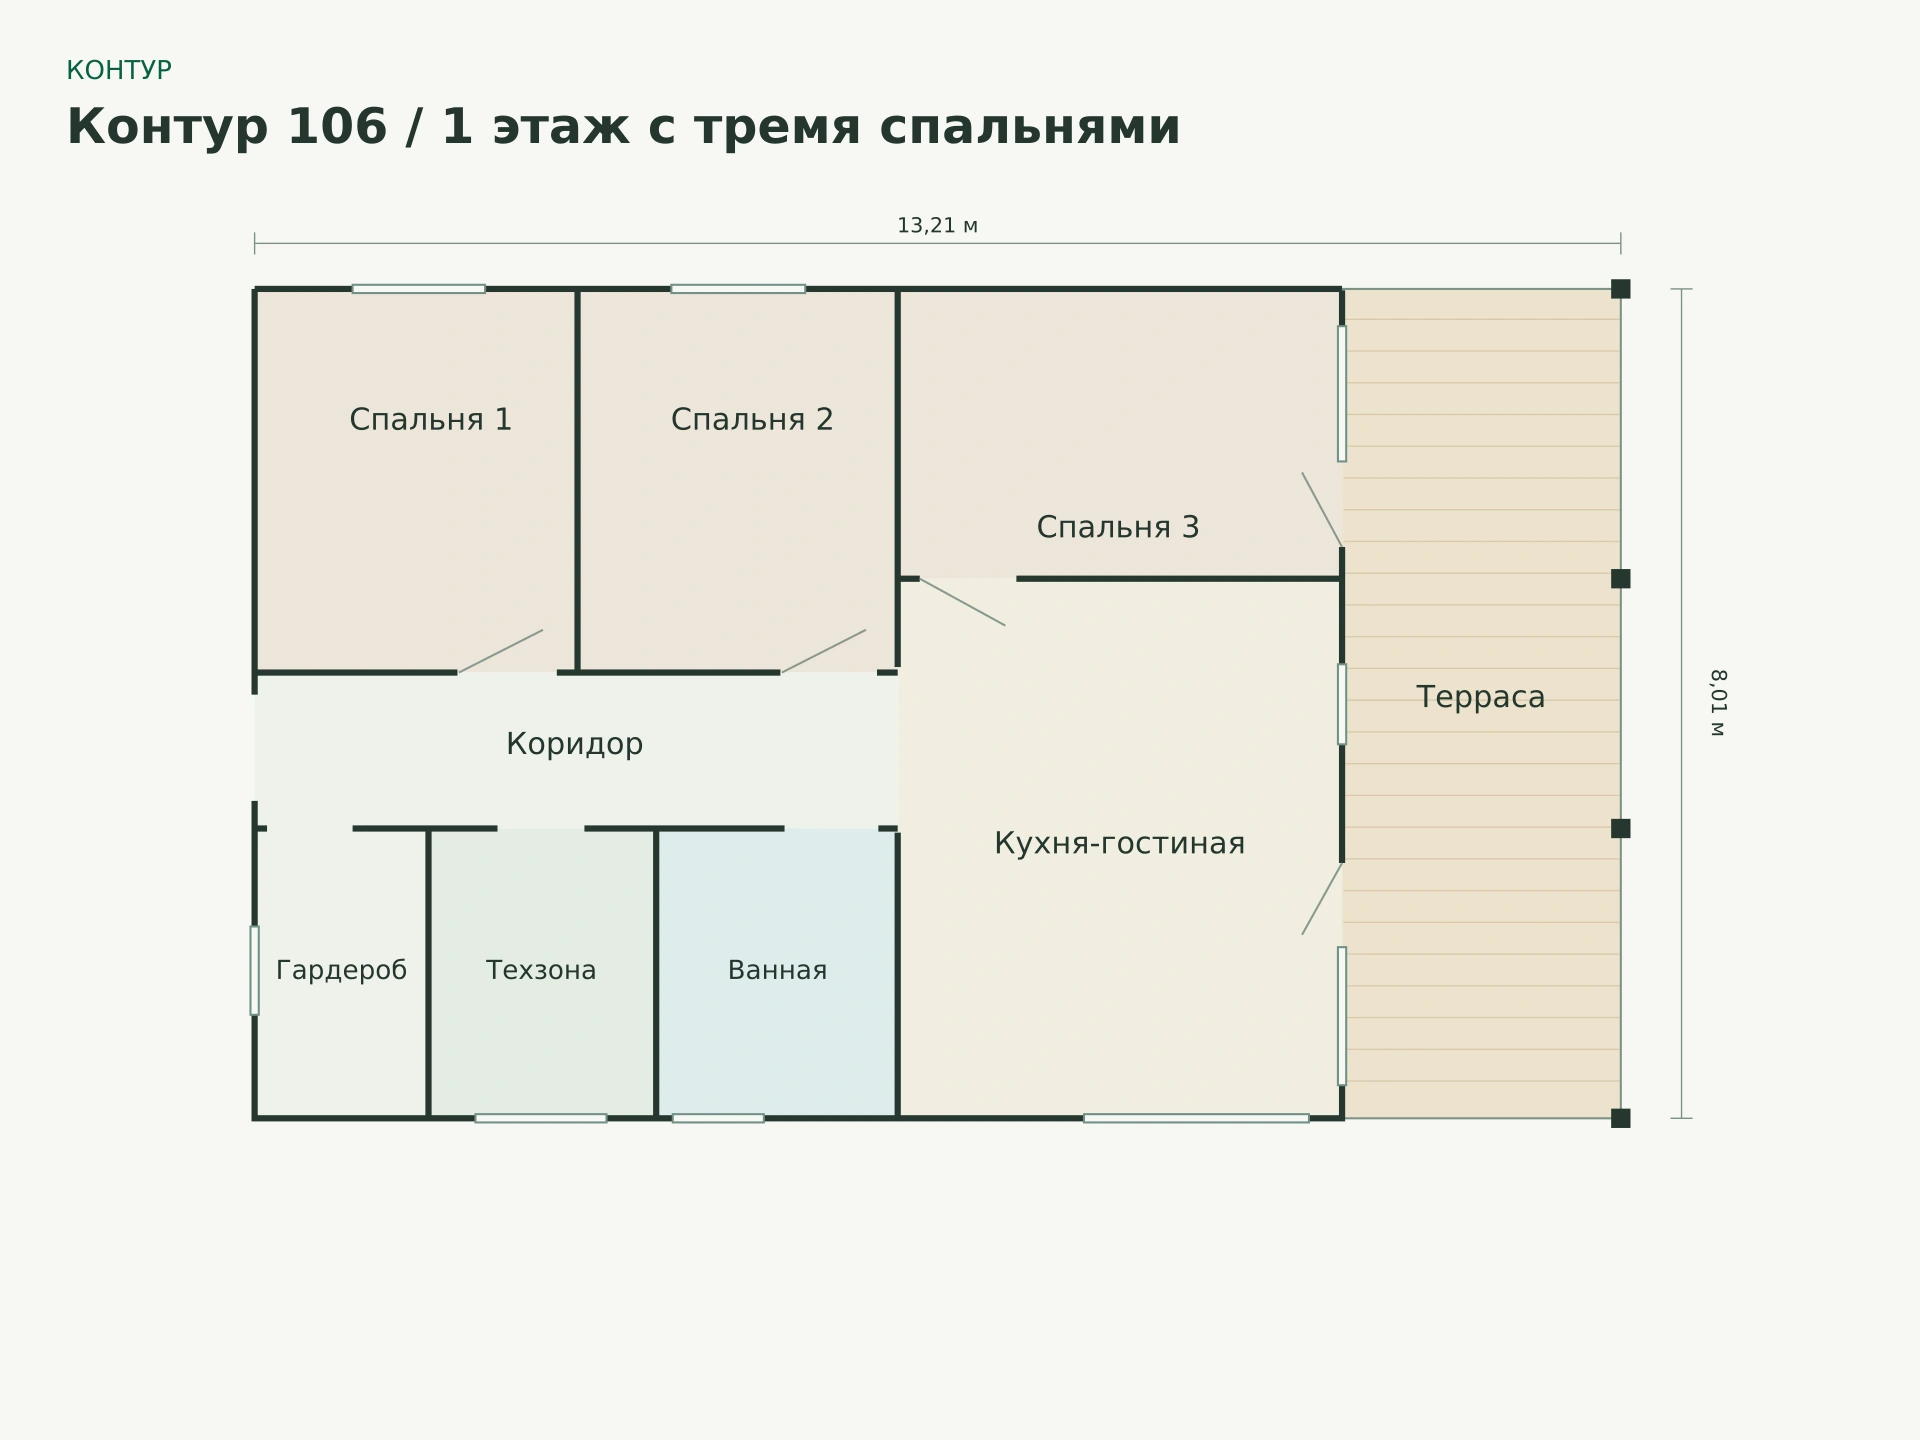
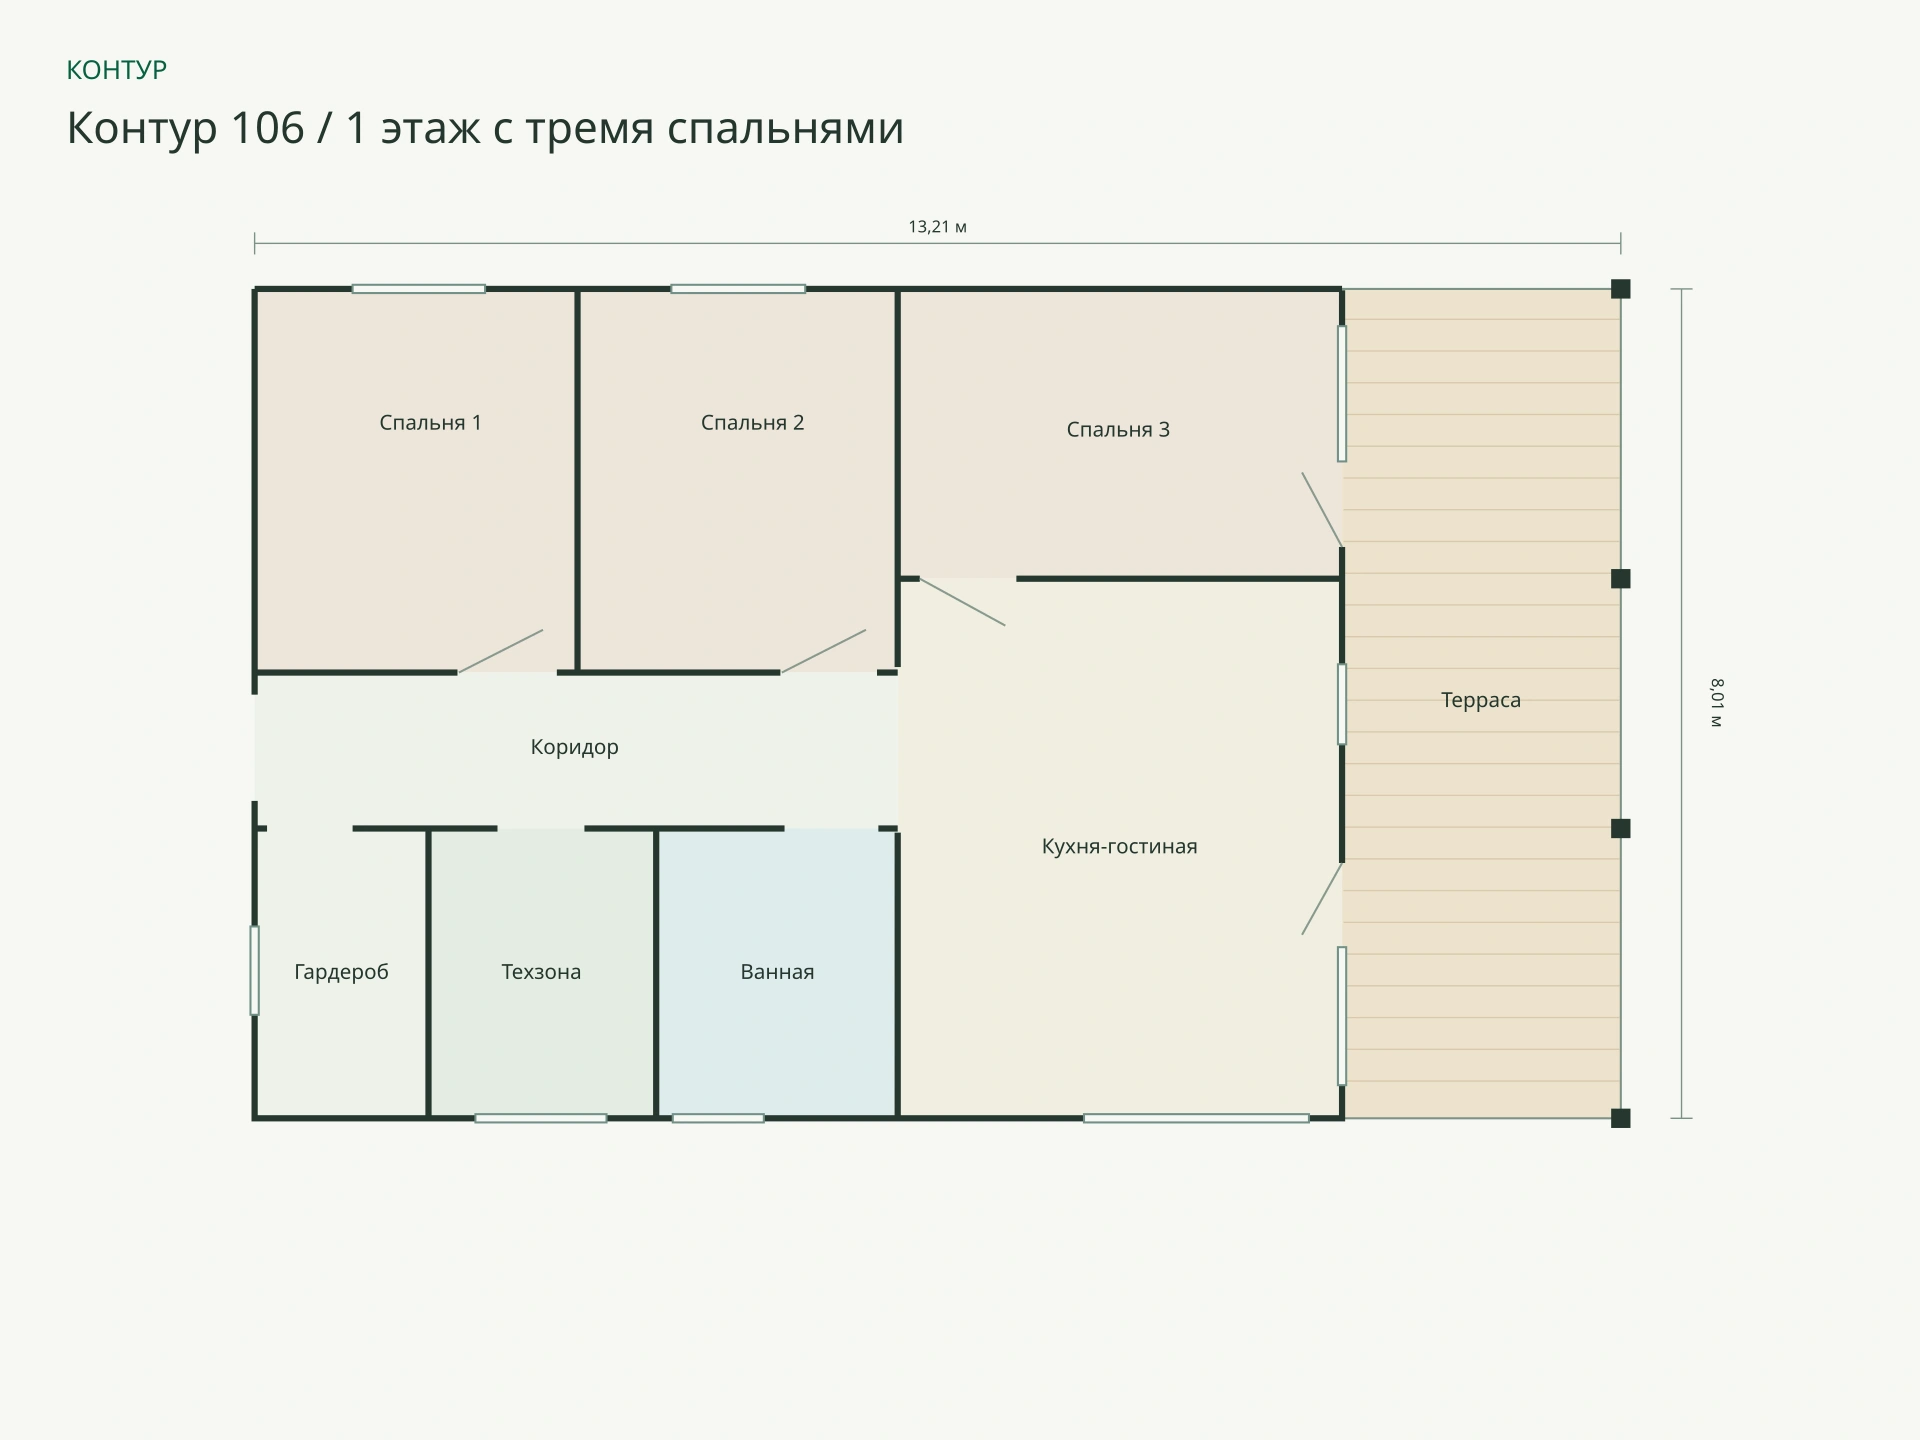
Standardize floor plans on the original Kontur 106 layout

diff --git a/docs/site-rules/popular-projects.md b/docs/site-rules/popular-projects.md
@@ -13,6 +13,8 @@
 
 ## Планировки
 
+- **Эталон оформления для всех новых планировок - первый вариант «Контур 106» с двумя спальнями.** Перед отрисовкой открой [утверждённый лист](https://github.com/davaygazu/kontur-images/blob/cc0f3d29f9e2961b4106ac87b7dfb02f418bb465/assets/popular-projects-20261110/plans/sosnovka-plan-1-clean.webp) и сравни оба листа в одинаковом масштабе. Повтори пропорции листа 1920 × 1440, поля, положение и размер марки и основного заголовка, размер и вес подписей комнат, площадей и габаритов, а также толщину стен, проёмов и размерных линий. Заголовок сверху компактный, без тяжёлого жирного начертания. Геометрию и названия бери из исходника конкретного проекта.
+
 - Рисуй по утверждённому исходнику. Светлый фон, «КОНТУР» и название проекта с этажом сверху слева. Для каждого этажа или утверждённого варианта свой лист. Сверь стены, двери, окна, направление открывания, вход, террасы и крыльцо. Проверяй положение ступеней относительно входного проёма и фасада. Если ступени должны быть по центру, их оси должны совпадать.
 - Под названием помещения или террасы ставь только площадь, например «20,8 м²», без «≈», «~» и формулы умножения. Утверждённые размерные линии по периметру сохраняй.
 - Для сайта используй WebP. Текущий скрипт распознаёт файлы в папке plans/ и имена plan-etazh-1.webp, plan-etazh-2.webp, plan-terrace-balcony.webp. Проверь, что план виден целиком, читается при увеличении и кнопки ведут к правильным этажам.
